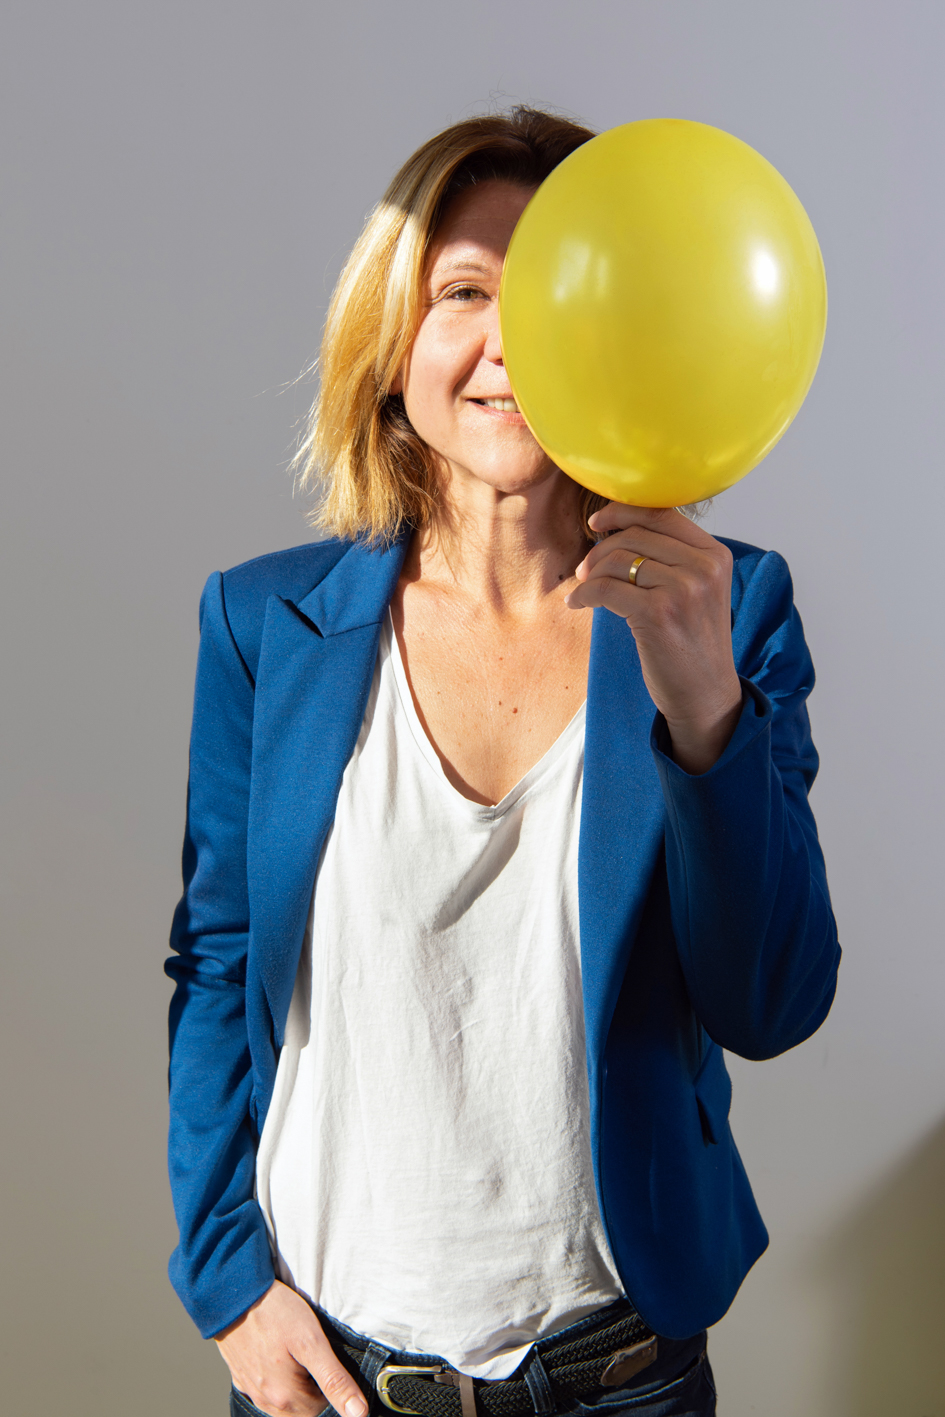
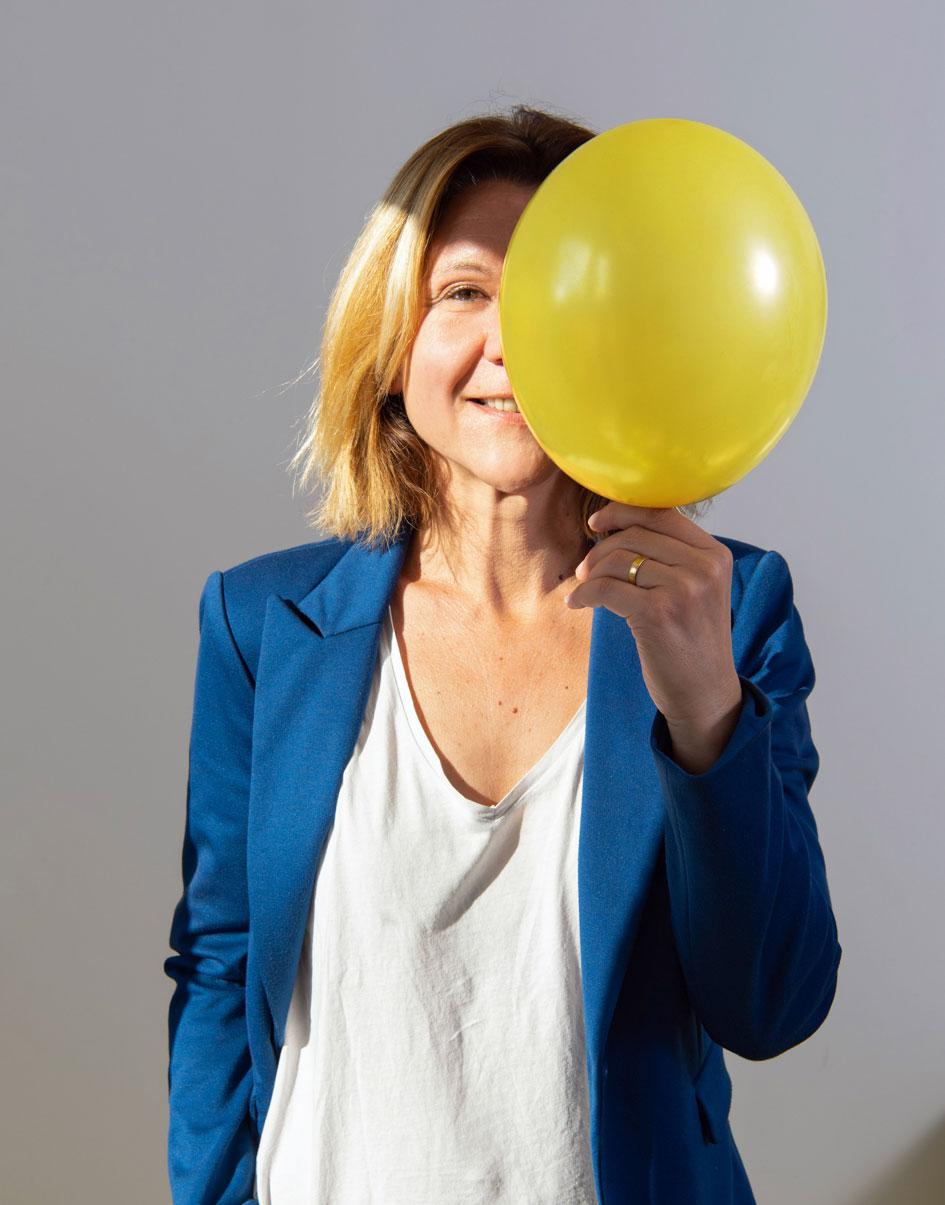
nouvelles photos et copyrights

diff --git a/index.html b/index.html
@@ -64,13 +64,13 @@
 </nav>
 
 <div class="row mr-0 ml-0  ap-bg-color-beige">
-    <div class="col-md-8 m-0 p-0">
+    <div class="col-md-7 m-0 p-0">
         <div class="m-5 align-middle">
             <div class="ap-color-rouge">
                 <div>
                     Je suis Angélique Prisul
                 </div>
-                <div style="font-size:2rem">
+                <div style="font-size:2.5rem; line-height: 1;" class="pb-1">
                     DIRECTRICE ARTISTIQUE
                 </div>
                 <div style="font-size:1rem;" class="font-weight-bold">
@@ -80,22 +80,16 @@
             <br>
             <div class="ap-color-gris">
                 <div style="font-size:1rem;">
-                    J'accompagne dans une démarche globale,
-                </div>
-                <div style="font-size:1rem;" class="font-weight-bold">
-                    les indépendants, les petites/moyennes entreprises et les porteurs de projet
-                </div>
-                <div style="font-size:1rem;">
+                    J'accompagne dans une démarche de communication globale,
+                    <b>les indépendants, les petites/moyennes entreprises et les porteurs de projet</b>
                     dans l'élaboration et la création d’identité/univers graphique
-                </div>
-                <div style="font-size:1rem;">
                     sur tous supports de communication (print & digital).
                 </div>
             </div>
         </div>
     </div>
-    <div class="col-md-4 m-0 p-0">
-        <img src="images/ap-accueil.jpg" class="w-100 h-100">
+    <div class="col-md-5 m-0 p-0">
+        <img src="images/ap-accueil.jpg" class="ap-img-responsive pb-0">
     </div>
 </div>
 
@@ -296,7 +290,7 @@
             <img src="images/insta.webp" style="width: 30px; height: 30px">
         </a>
         <div style="font-size: 0.50rem;">
-            © Adélaïde Maisonabe / Nuuk photographies<br>© photos : Daria Luidnaya
+            © Adélaïde Maisonabe / Nuuk photographies<br>© Daria Luidnaya
         </div>
     </div>
 </div>

diff --git a/approche.html b/approche.html
@@ -124,7 +124,7 @@
         <div><strong>CRÉATION</strong></div>
         <br>
         <div class="ap-processus-text">
-            Après une phase de réflexion, de recherche et de conception, je vous présenterai 3 concepts graphiques mettant en valeur votre caractère unique. Vous choisirez le concept qui vous correspond le plus et me ferez part de vos remarques que je prendrai en compte pour la prochaine étape.
+            Après une phase de réflexion, de recherche et de conception, je vous présenterai 2 à 3 concepts graphiques mettant en valeur votre caractère unique. Vous choisirez le concept qui vous correspond le plus et me ferez part de vos remarques que je prendrai en compte pour la prochaine étape.
         </div>
     </div>
 </div>
@@ -174,7 +174,7 @@
             <img src="images/insta.webp" style="width: 30px; height: 30px">
         </a>
         <div style="font-size: 0.50rem;">
-            © Adélaïde Maisonabe / Nuuk photographies<br>© photos : Daria Luidnaya
+            © Adélaïde Maisonabe / Nuuk photographies<br>© Daria Luidnaya
         </div>
     </div>
 </div>

diff --git a/carrement_fleurs.html b/carrement_fleurs.html
@@ -112,7 +112,7 @@ Vidéo de présentation de la campagne de communication pour un appel d'offre.
             <img src="images/insta.webp" style="width: 30px; height: 30px">
         </a>
         <div style="font-size: 0.50rem;">
-            © Adélaïde Maisonabe / Nuuk photographies<br>© photos : Daria Luidnaya
+            © Adélaïde Maisonabe / Nuuk photographies<br>© Daria Luidnaya
         </div>
     </div>
 </div>

diff --git a/BDM_cata.html b/BDM_cata.html
@@ -111,7 +111,7 @@
             <img src="images/insta.webp" style="width: 30px; height: 30px">
         </a>
         <div style="font-size: 0.50rem;">
-            © Adélaïde Maisonabe / Nuuk photographies<br>© photos : Daria Luidnaya
+            © Adélaïde Maisonabe / Nuuk photographies<br>© Daria Luidnaya
         </div>
     </div>
 </div>

diff --git a/BDM_produits.html b/BDM_produits.html
@@ -111,7 +111,7 @@
             <img src="images/insta.webp" style="width: 30px; height: 30px">
         </a>
         <div style="font-size: 0.50rem;">
-            © Adélaïde Maisonabe / Nuuk photographies<br>© photos : Daria Luidnaya
+            © Adélaïde Maisonabe / Nuuk photographies<br>© Daria Luidnaya
         </div>
     </div>
 </div>

diff --git a/alcazar.html b/alcazar.html
@@ -109,7 +109,7 @@
             <img src="images/insta.webp" style="width: 30px; height: 30px">
         </a>
         <div style="font-size: 0.50rem;">
-            © Adélaïde Maisonabe / Nuuk photographies<br>© photos : Daria Luidnaya
+            © Adélaïde Maisonabe / Nuuk photographies<br>© Daria Luidnaya
         </div>
     </div>
 </div>

diff --git a/avene.html b/avene.html
@@ -107,7 +107,7 @@
             <img src="images/insta.webp" style="width: 30px; height: 30px">
         </a>
         <div style="font-size: 0.50rem;">
-            © Adélaïde Maisonabe / Nuuk photographies<br>© photos : Daria Luidnaya
+            © Adélaïde Maisonabe / Nuuk photographies<br>© Daria Luidnaya
         </div>
     </div>
 </div>

diff --git a/blaye_villa_des_arts.html b/blaye_villa_des_arts.html
@@ -110,7 +110,7 @@
             <img src="images/insta.webp" style="width: 30px; height: 30px">
         </a>
         <div style="font-size: 0.50rem;">
-            © Adélaïde Maisonabe / Nuuk photographies<br>© photos : Daria Luidnaya
+            © Adélaïde Maisonabe / Nuuk photographies<br>© Daria Luidnaya
         </div>
     </div>
 </div>

diff --git a/domtom.html b/domtom.html
@@ -106,7 +106,7 @@
             <img src="images/insta.webp" style="width: 30px; height: 30px">
         </a>
         <div style="font-size: 0.50rem;">
-            © Adélaïde Maisonabe / Nuuk photographies<br>© photos : Daria Luidnaya
+            © Adélaïde Maisonabe / Nuuk photographies<br>© Daria Luidnaya
         </div>
     </div>
 </div>

diff --git a/drb.html b/drb.html
@@ -111,7 +111,7 @@
             <img src="images/insta.webp" style="width: 30px; height: 30px">
         </a>
         <div style="font-size: 0.50rem;">
-            © Adélaïde Maisonabe / Nuuk photographies<br>© photos : Daria Luidnaya
+            © Adélaïde Maisonabe / Nuuk photographies<br>© Daria Luidnaya
         </div>
     </div>
 </div>

diff --git a/ducray.html b/ducray.html
@@ -112,7 +112,7 @@
             <img src="images/insta.webp" style="width: 30px; height: 30px">
         </a>
         <div style="font-size: 0.50rem;">
-            © Adélaïde Maisonabe / Nuuk photographies<br>© photos : Daria Luidnaya
+            © Adélaïde Maisonabe / Nuuk photographies<br>© Daria Luidnaya
         </div>
     </div>
 </div>

diff --git a/editionprint.html b/editionprint.html
@@ -188,7 +188,7 @@
             <img src="images/insta.webp" style="width: 30px; height: 30px">
         </a>
         <div style="font-size: 0.50rem;">
-            © Adélaïde Maisonabe / Nuuk photographies<br>© photos : Daria Luidnaya
+            © Adélaïde Maisonabe / Nuuk photographies<br>© Daria Luidnaya
         </div>
     </div>
 </div>
